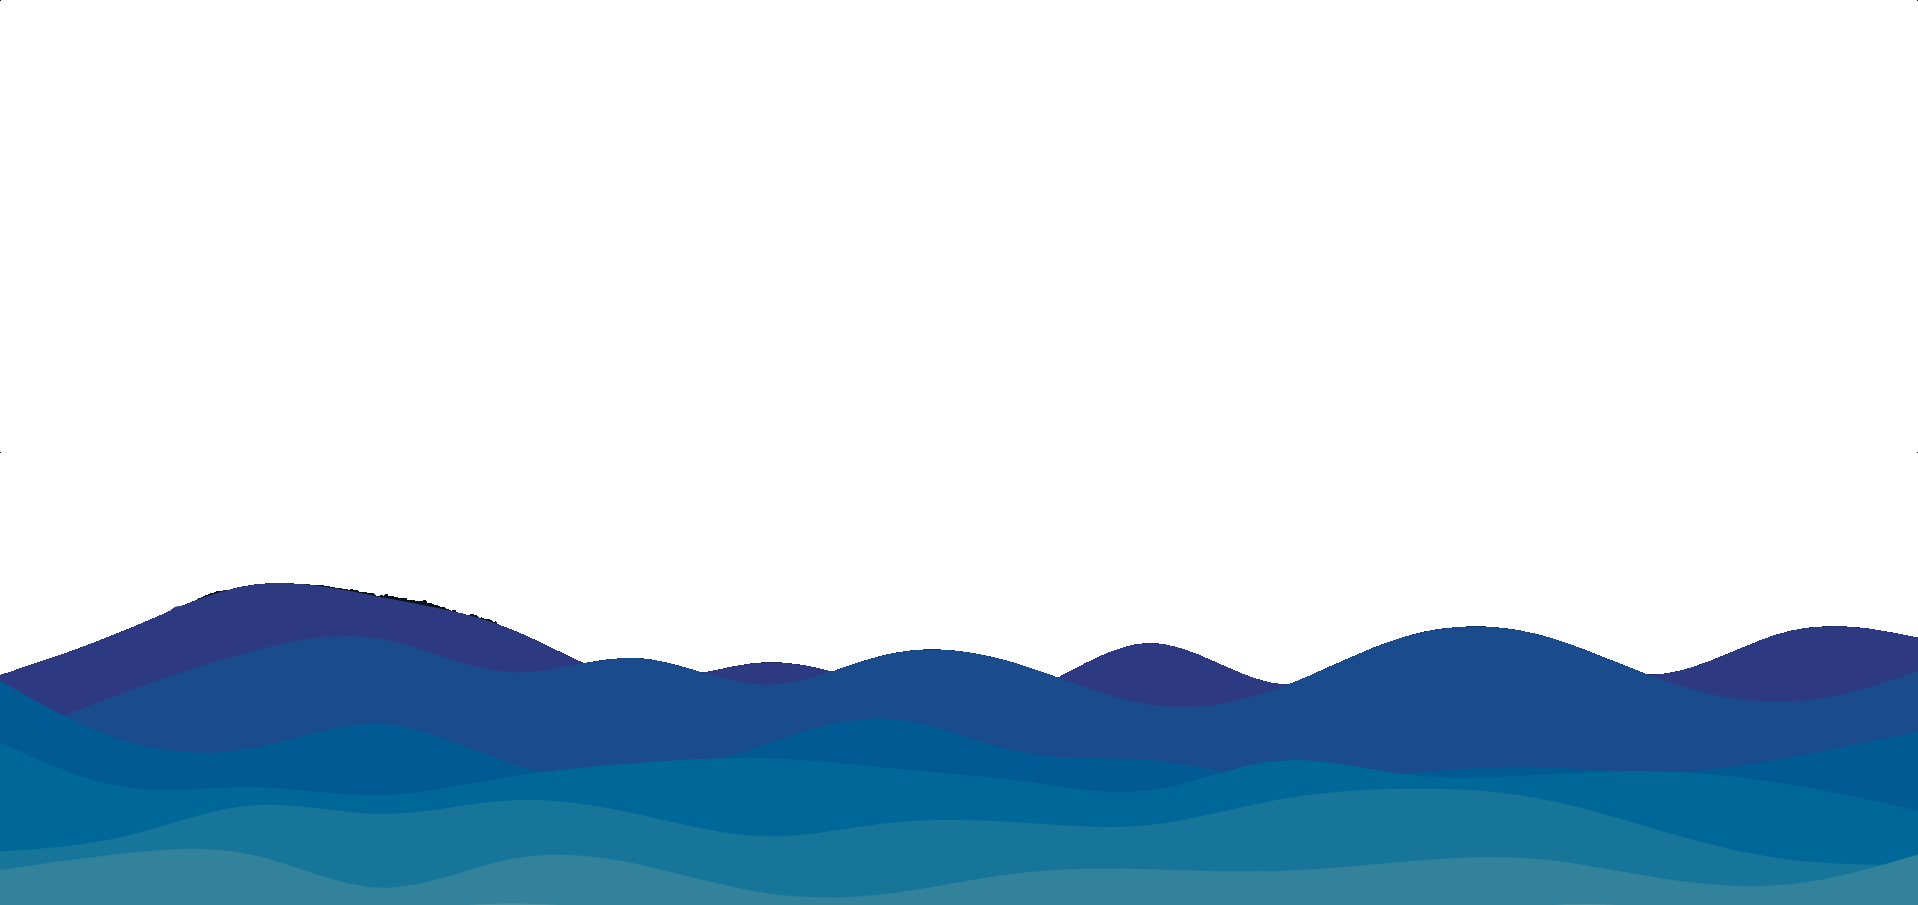
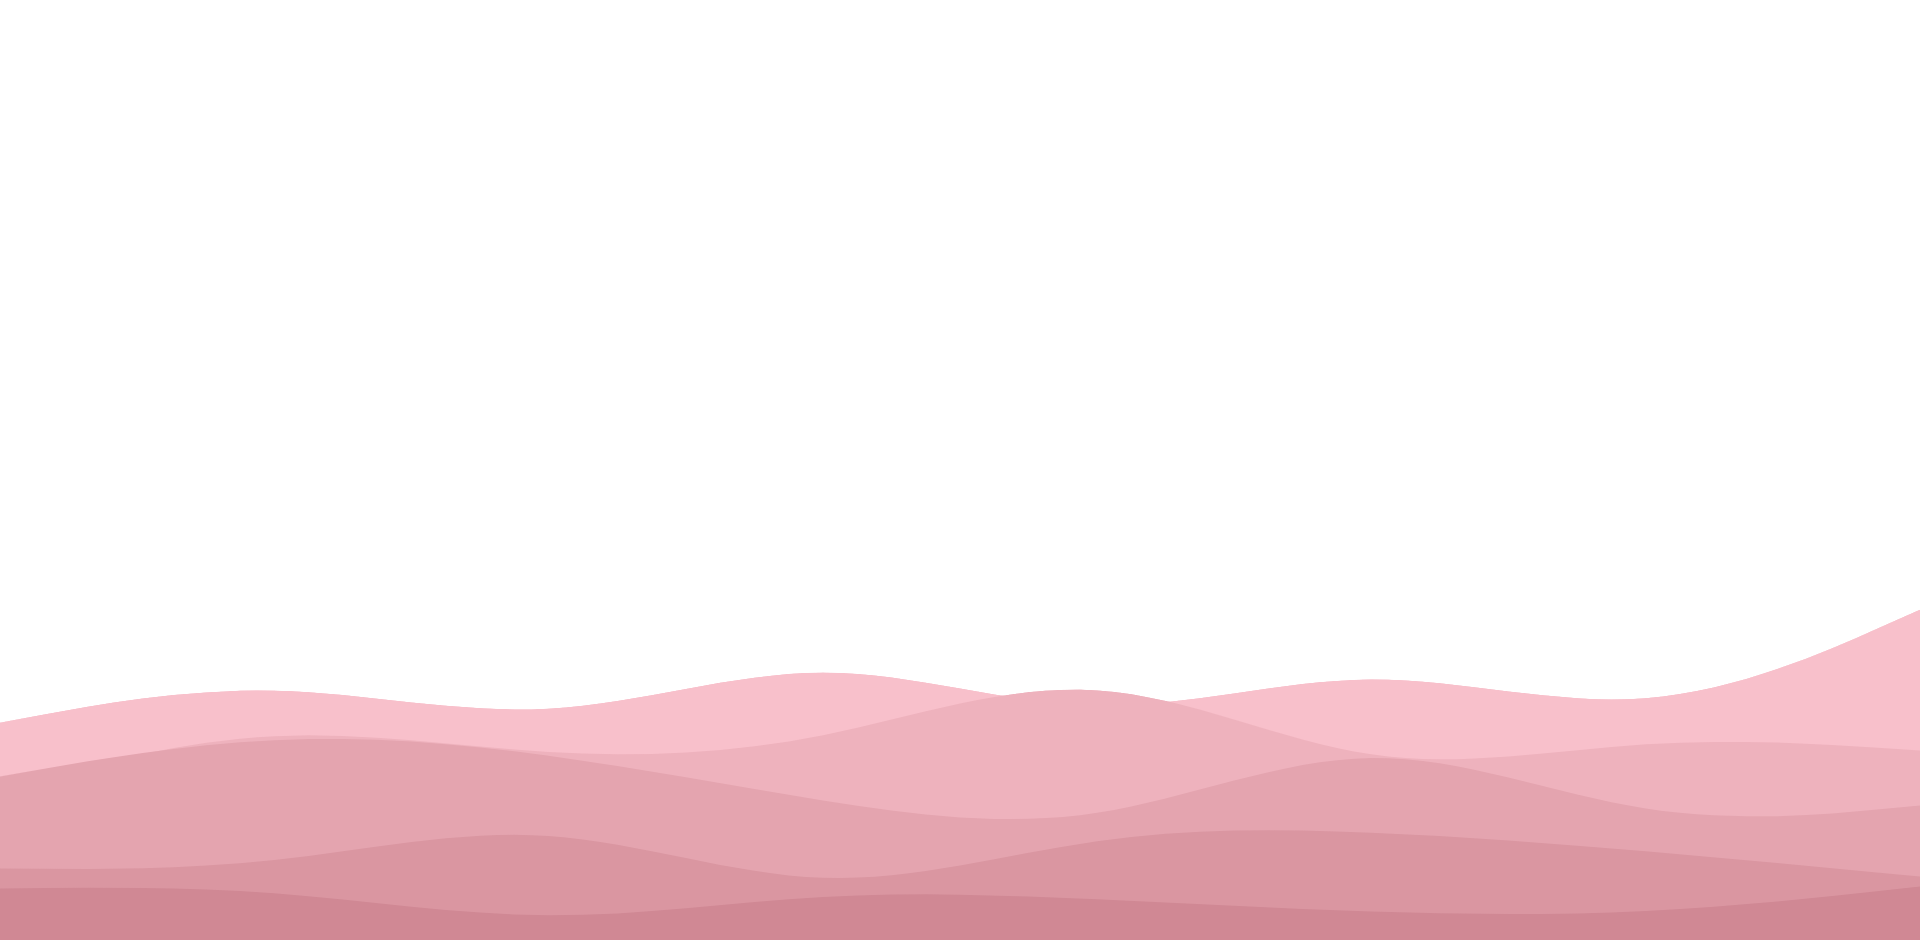
changed theme of game

Changed region(s): [[0.0, 0.6188, 1.0, 1.0]]

diff --git a/src/App.tsx b/src/App.tsx
@@ -84,10 +84,12 @@ const Game = () => {
                 <div className="congrats-message">
                   <img src={DANCE} alt="" width="80px" />
                   <br />
-                  <p style={{ marginBottom: "20px" }}>
-                    Good catching {maxScore} fish!
+                  <p style={{ marginBottom: "20px", fontSize: "0.9em" }}>
+                    Happy Birthday Chelsea :&#41;!!
                   </p>
-                  <p>Ginger still wants more fish though...</p>
+                  <p style={{ fontSize: "0.4em" }}>
+                    More cake needs to be eaten though...
+                  </p>
                   <div className="congrats-btns">
                     {/* <button
                       onClick={() =>
@@ -105,7 +107,7 @@ const Game = () => {
               <>
                 <div className="ingame-text-container">
                   <div className="ingame-text">
-                    <h1>Help Ginger catch {maxScore} fish!!</h1>
+                    <h1>Help Chelsea eat {maxScore} cake!!</h1>
                     <p>Score: {score}</p>
                     <div style={{ display: "flex" }}>
                       <button
@@ -142,9 +144,9 @@ const Game = () => {
         <>
           <div className="title-container">
             <div className="title-text">
-              <h1>Catch fish to feed Ginger!</h1>
+              <h1>Quick feed Chelsea cake!</h1>
               <div className="set-fish-score">
-                Ginger's hunger
+                Pieces of cake
                 <button
                   onClick={() =>
                     setMaxScore((prev) => (prev - 1 > 2 ? prev - 1 : 2))
@@ -153,7 +155,7 @@ const Game = () => {
                 >
                   😿
                 </button>
-                <p>{maxScore} Fishes</p>
+                <p>{maxScore} Pieces</p>
                 <button
                   onClick={() =>
                     setMaxScore((prev) => (prev + 1 > 15 ? prev : prev + 1))

diff --git a/src/index.css b/src/index.css
@@ -129,8 +129,12 @@ body {
   margin: 0;
   padding: 0;
   font-family: Arial, sans-serif;
-  color: white;
+  color: black;
   overflow: hidden; /* Hide scrollbars */
+}
+
+button:hover {
+  cursor: pointer;
 }
 
 .title-container {
@@ -147,7 +151,7 @@ body {
 .title-text .start {
   margin-left: 205px;
   background: transparent;
-  color: white;
+  color: black;
   border: 1px solid white;
   border-radius: 20px;
   padding: 20px;
@@ -158,7 +162,7 @@ body {
 .title-text .start:hover {
   /* background-color: rgb(52, 52, 88); */
   background-color: pink;
-  color: white;
+  color: black;
 }
 
 .game-container {
@@ -191,10 +195,10 @@ body {
 }
 
 .ingame-text button {
-  background: transparent;
+  background: grey;
   border: 1px white solid;
   border-radius: 12px;
-  color: white;
+  color: black;
   padding: 5px 5px;
   margin-top: 10px;
   width: 100px;
@@ -215,7 +219,7 @@ body {
   bottom: 0;
   width: 50px;
   height: 50px;
-  background-image: url("./assets/mc-fish.png");
+  background-image: url("./assets/cake-picture.png");
   background-size: contain;
   /* background-color: red; */
   background-repeat: no-repeat;
@@ -251,10 +255,11 @@ body {
 }
 
 .congrats-message button {
-  background: transparent;
+  margin-top: 50px;
+  background: grey;
   border: 1px white solid;
   border-radius: 12px;
-  color: white;
+  color: black;
   padding: 10px 30px;
   transition: background-color 0.3s ease-in-out;
 }
@@ -307,7 +312,10 @@ body {
   margin: 0;
   width: 30px;
 }
+.set-fish-score button:hover {
+  cursor: pointer;
+}
 
 .custom-cursor {
-  cursor: url("./assets/orange-cat.png") 50 50, auto;
+  cursor: url("./assets/chelsea-pic.png") 50 50, auto;
 }
